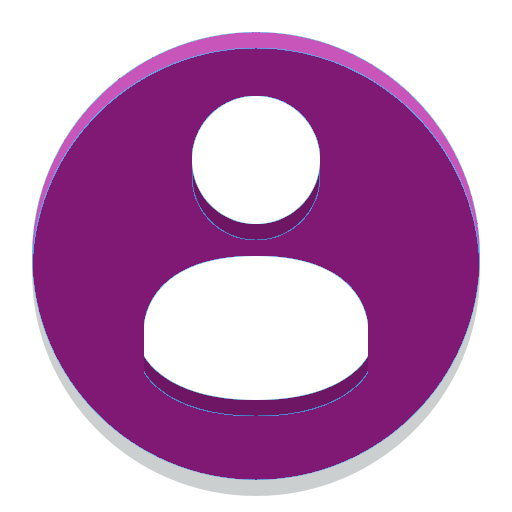
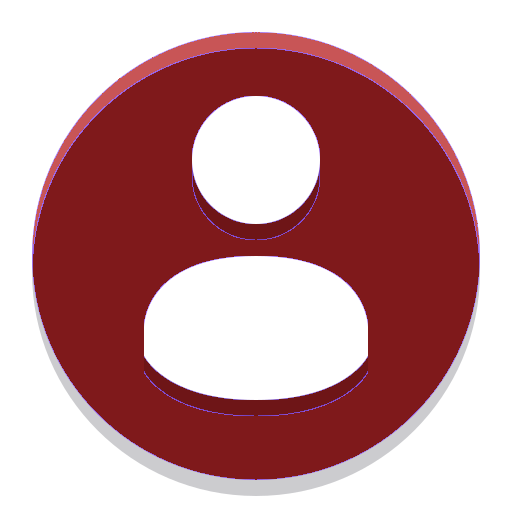
css claro v1
1 v css claro

diff --git a/frontend/web/css/site_claro.css b/frontend/web/css/site_claro.css
@@ -1,0 +1,142 @@
+html,
+body {
+    height: 100%;
+}
+
+.wrap {
+    min-height: 100%;
+    height: auto;
+    margin: 0 auto -60px;
+    padding: 0 0 60px;
+}
+
+.wrap > .container {
+    padding: 70px 15px 20px;
+}
+
+.footer {
+    height: 60px;
+    background-color: #f5f5f5;
+    border-top: 1px solid #ddd;
+    padding-top: 20px;
+}
+
+.jumbotron {
+    text-align: center;
+    background-color: transparent;
+}
+
+.jumbotron .btn {
+    font-size: 21px;
+    padding: 14px 24px;
+}
+
+.not-set {
+    color: #c55;
+    font-style: italic;
+}
+
+/* add sorting icons to gridview sort links */
+a.asc:after, a.desc:after {
+    position: relative;
+    top: 1px;
+    display: inline-block;
+    font-family: 'Glyphicons Halflings';
+    font-style: normal;
+    font-weight: normal;
+    line-height: 1;
+    padding-left: 5px;
+}
+
+a.asc:after {
+    content: "\e151";
+}
+
+a.desc:after {
+    content: "\e152";
+}
+
+.sort-numerical a.asc:after {
+    content: "\e153";
+}
+
+.sort-numerical a.desc:after {
+    content: "\e154";
+}
+
+.sort-ordinal a.asc:after {
+    content: "\e155";
+}
+
+.sort-ordinal a.desc:after {
+    content: "\e156";
+}
+
+.grid-view td {
+    white-space: nowrap;
+}
+
+.grid-view .filters input,
+.grid-view .filters select {
+    min-width: 50px;
+}
+
+.hint-block {
+    display: block;
+    margin-top: 5px;
+    color: #999;
+}
+
+.error-summary {
+    color: #a94442;
+    background: #fdf7f7;
+    border-left: 3px solid #eed3d7;
+    padding: 10px 20px;
+    margin: 0 0 15px 0;
+}
+
+/* align the logout "link" (button in form) of the navbar */
+.nav li > form > button.logout {
+    padding: 15px;
+    border: none;
+}
+
+@media(max-width:767px) {
+    .nav li > form > button.logout {
+        display:block;
+        text-align: left;
+        width: 100%;
+        padding: 10px 15px;
+    }
+}
+
+.nav > li > form > button.logout:focus,
+.nav > li > form > button.logout:hover {
+    text-decoration: none;
+}
+
+.nav > li > form > button.logout:focus {
+    outline: none;
+}
+
+.navbar-header{
+    background-color: #ef382a !important;
+}
+
+.btn-primary {
+    color: #fff;
+    background-color: #ef382a;
+    border-color: #ef382a;
+}
+
+.btn-primary:not(:disabled):not(.disabled):active, .btn-primary:not(:disabled):not(.disabled).active, .show > .btn-primary.dropdown-toggle {
+    color: #fff;
+    background-color: #a70514 !important;
+    border-color: #a70514 !important;
+}
+
+.btn-primary:hover{
+    color: #fff;
+    background-color: #a70514 !important;
+    border-color: #a70514 !important;
+}

diff --git a/frontend/views/layouts/main.php b/frontend/views/layouts/main.php
@@ -53,6 +53,10 @@ AppAsset::register($this);
         .table-condensed > tbody > tr > td, .table-condensed > tbody > tr > th, .table-condensed > tfoot > tr > td, .table-condensed > tfoot > tr > th, .table-condensed > thead > tr > td, .table-condensed > thead > tr > th {
             padding: 5px;
         }
+        
+        .df-logo img:first-child {
+            background-image: url('<?= Url::base(true);  ?>/img/MEGAYA-Logo-blanco.png');
+        }
     </style>
     <script>
         var baseurl = '<?= Url::base(true);  ?>'; 
@@ -64,11 +68,11 @@ AppAsset::register($this);
     <a href="" id="mainMenuOpen" class="burger-menu d-none"><i data-feather="menu"></i></a>
     <a href="" id="filemgrMenu" class="burger-menu d-lg-none"><i data-feather="arrow-left"></i></a>
     <div class="navbar-brand">
-        <a href="<?php echo Url::toRoute('site/index'); ?>" class="df-logo"><img width="100px" src="<?= Url::base(true);  ?>/img/MEGAYA-Logo-blanco.png"/></a>
+        <a href="<?php echo Url::toRoute('site/index'); ?>" class="df-logo"><img width="100px" src="<?= Url::base(true); ?>/img/logo-claro-blanco@3x.png"/></a>
     </div><!-- navbar-brand -->
     <div id="navbarMenu" class="navbar-menu-wrapper">
       <div class="navbar-menu-header">
-        <a href="<?php echo Url::toRoute('site/index'); ?>" class="df-logo"><img width="100px" src="<?= Url::base(true);  ?>/img/MEGAYA-Logo-blanco.png"/></a>
+        <a href="<?php echo Url::toRoute('site/index'); ?>" class="df-logo"><img width="100px" src="<?= Url::base(true); ?>/img/logo-claro-blanco@3x.png"/></a>
         <a id="mainMenuClose" href=""><i data-feather="x"></i></a>
       </div><!-- navbar-menu-header -->
       <ul class="nav navbar-menu">

diff --git a/frontend/assets/AppAsset.php b/frontend/assets/AppAsset.php
@@ -18,6 +18,7 @@ class AppAsset extends AssetBundle
         'theme/dashforge/css/dashforge.css',
         'theme/dashforge/css/dashforge.filemgr.css',
         'theme/dashforge/css/skin.charcoal.css',
+        'css/site_claro.css',
         'https://cdnjs.cloudflare.com/ajax/libs/dropzone/5.7.2/dropzone.min.css',
         'https://cdn.datatables.net/v/dt/jszip-2.5.0/dt-1.10.21/b-1.6.3/b-colvis-1.6.3/b-flash-1.6.3/b-html5-1.6.3/b-print-1.6.3/r-2.2.5/sp-1.1.1/datatables.min.css',
         'https://cdnjs.cloudflare.com/ajax/libs/fancybox/3.5.7/jquery.fancybox.min.css'
